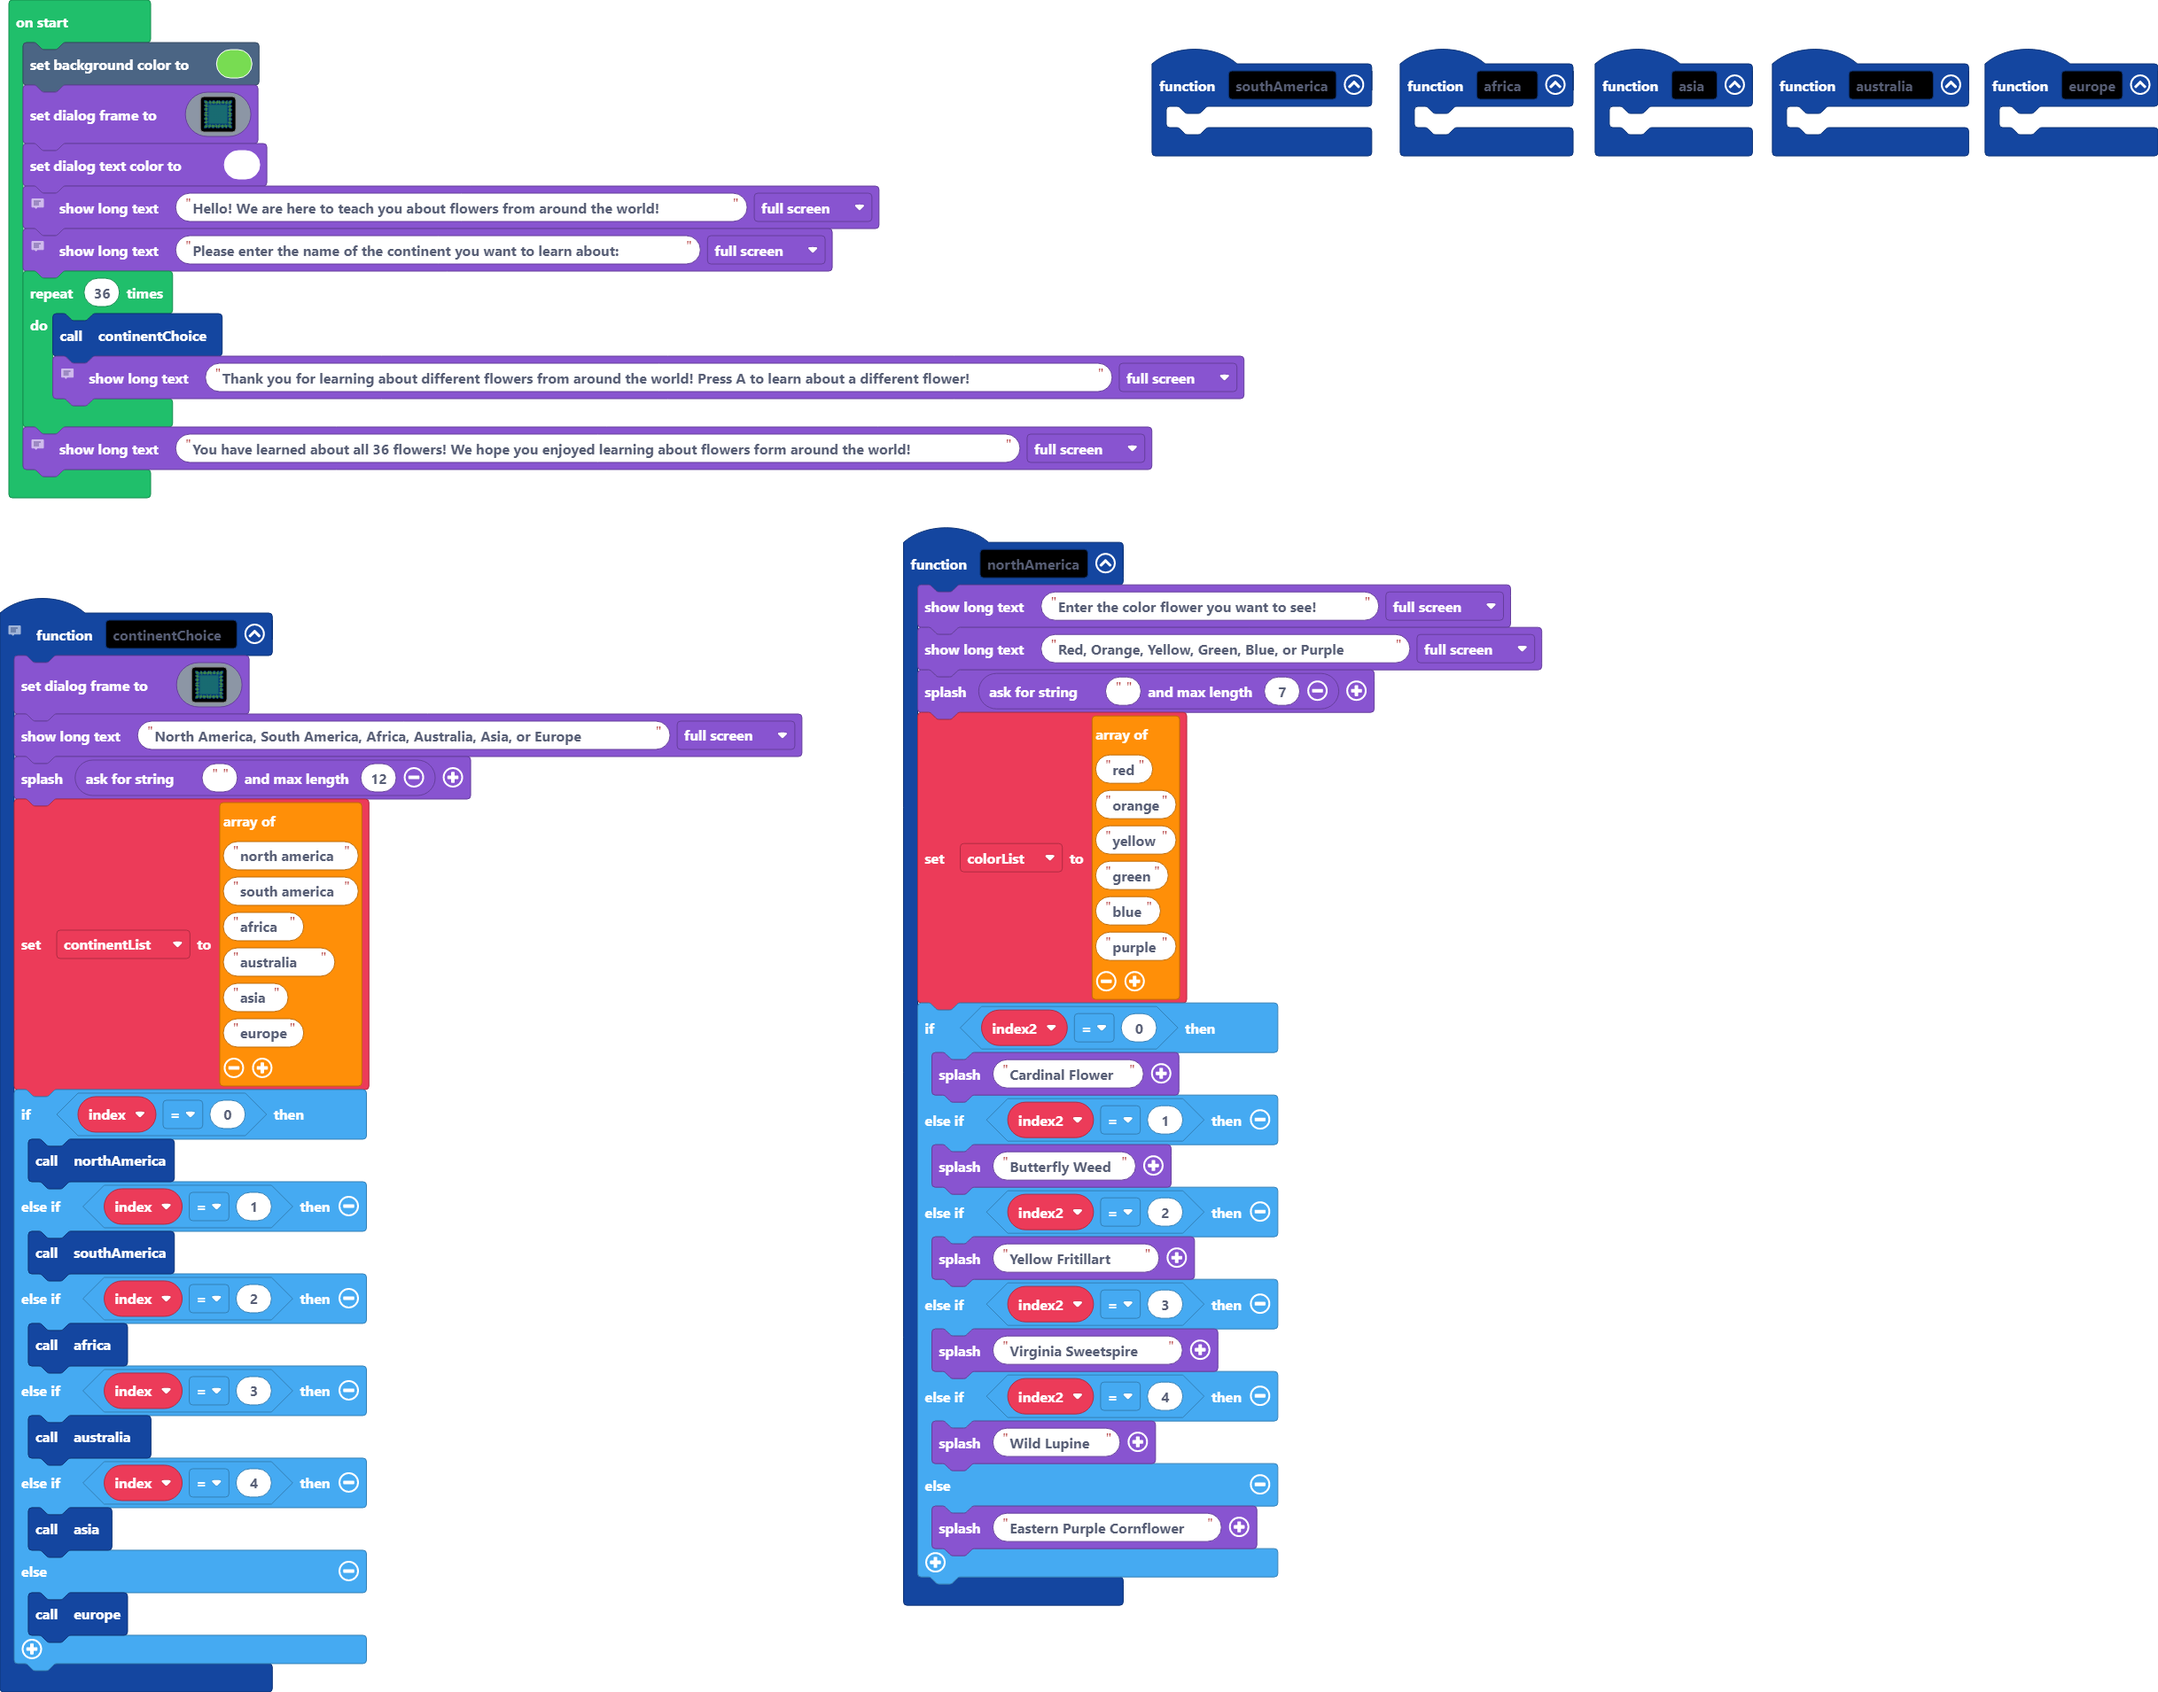
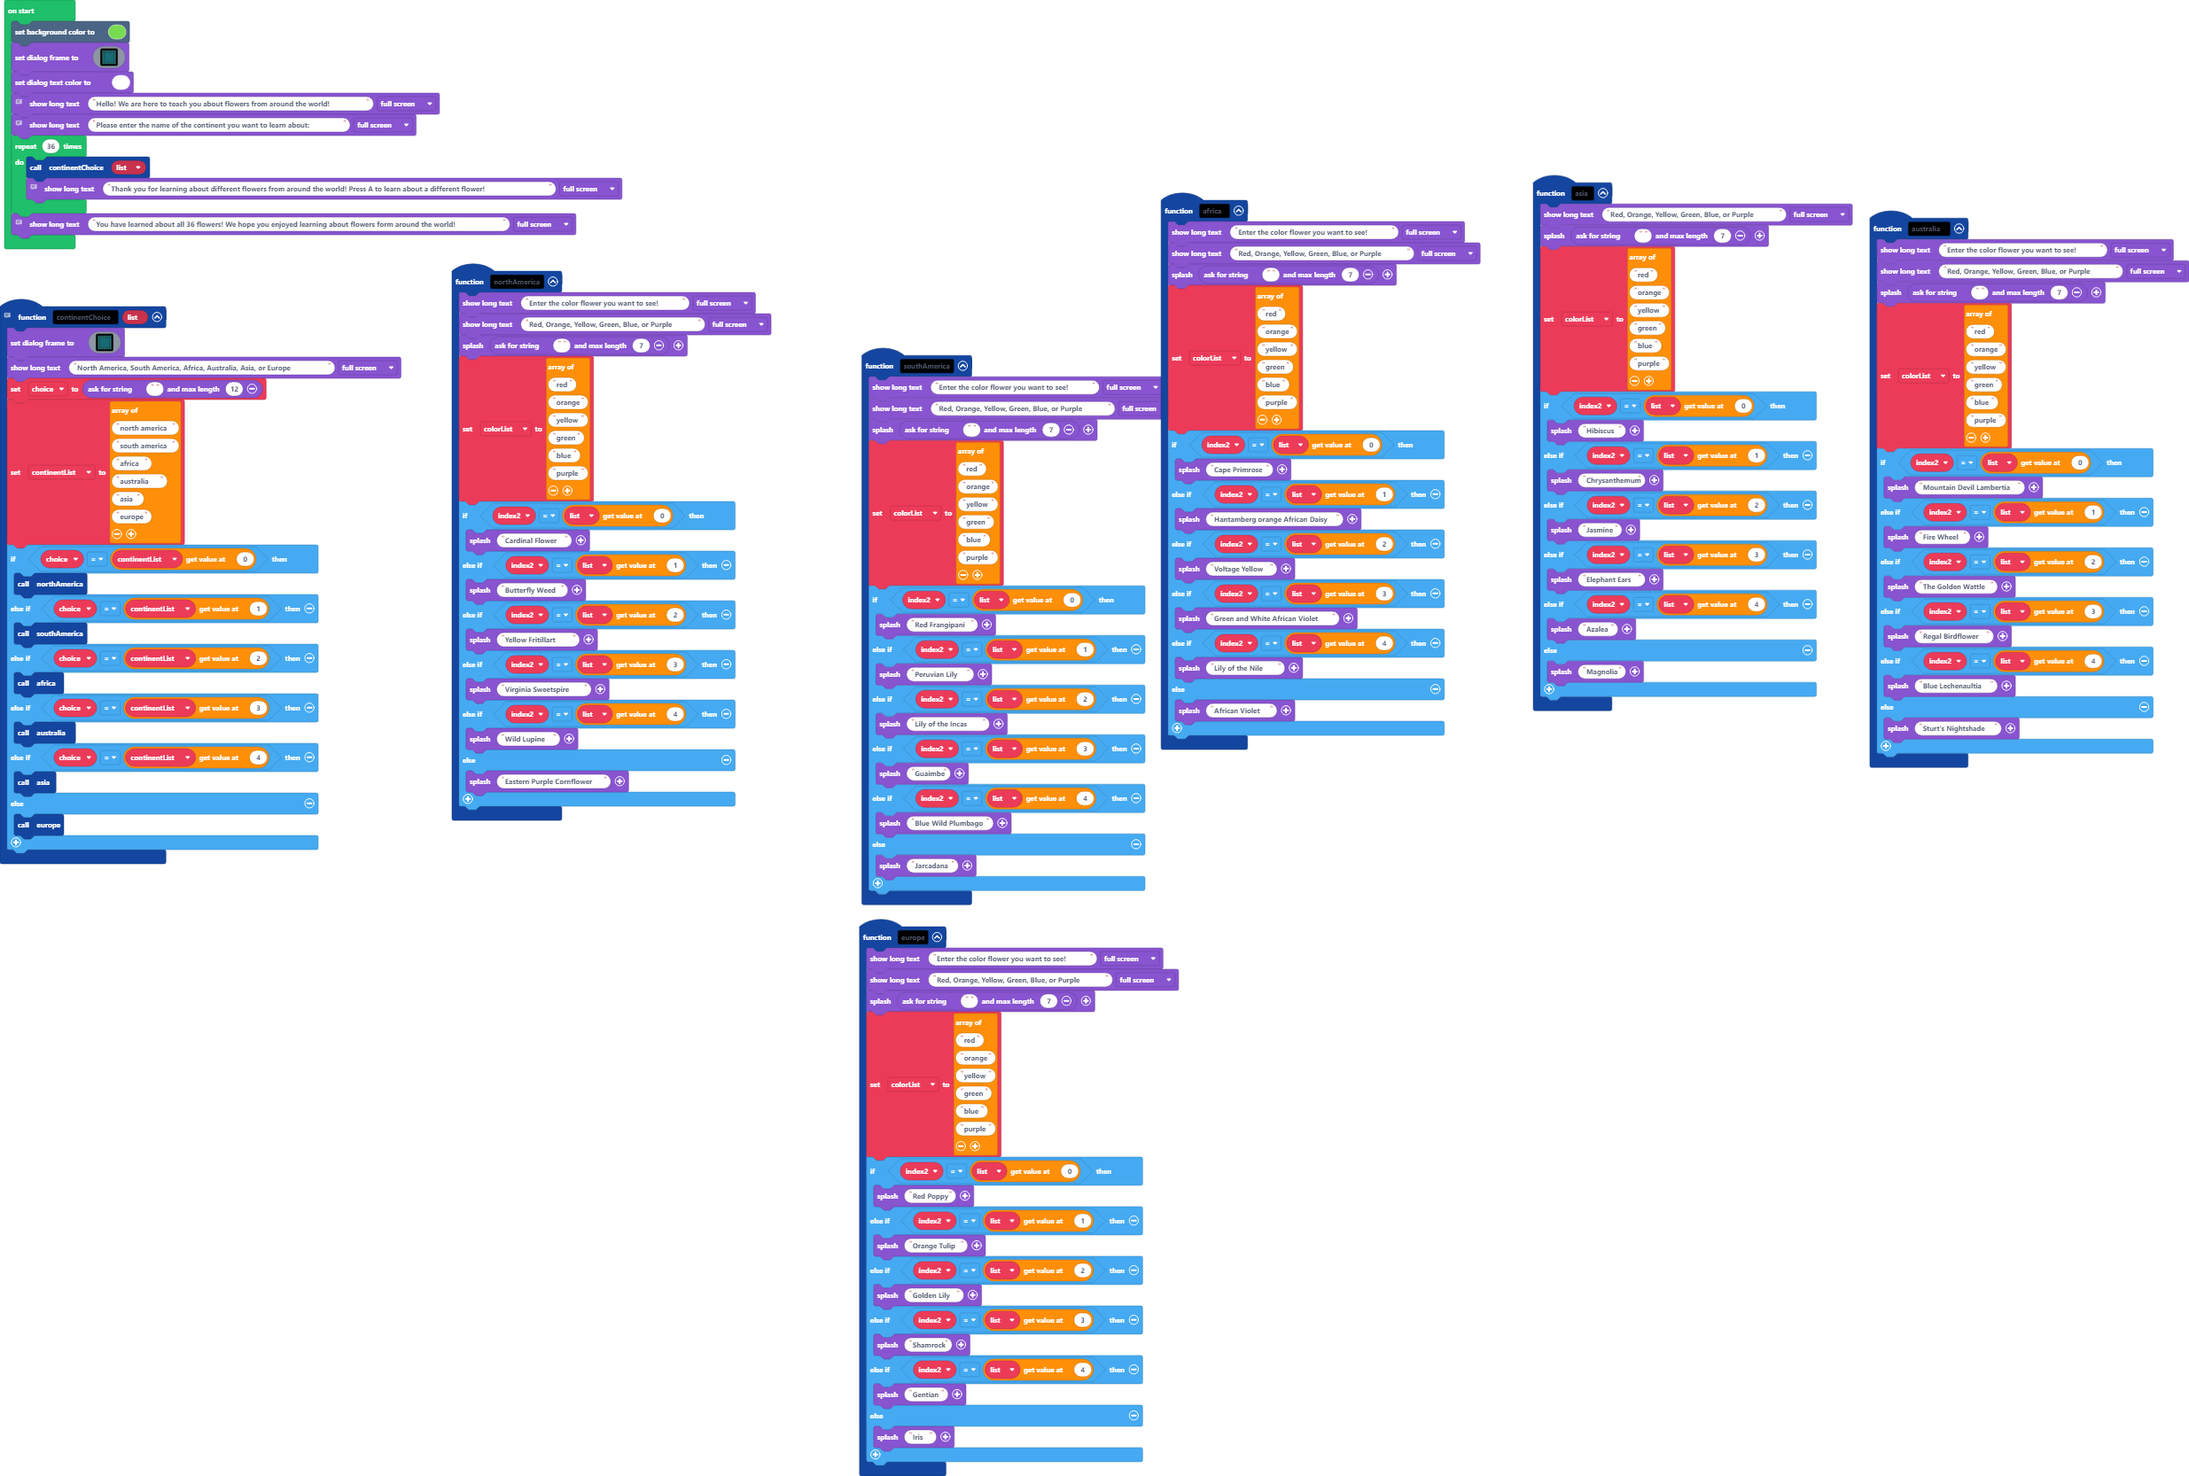
Update main.blocks, main.ts

diff --git a/main.ts b/main.ts
@@ -1,8 +1,29 @@
 function asia () {
-	
+    game.showLongText("Red, Orange, Yellow, Green, Blue, or Purple", DialogLayout.Full)
+    game.splash(game.askForString("", 7))
+    colorList = [
+    "red",
+    "orange",
+    "yellow",
+    "green",
+    "blue",
+    "purple"
+    ]
+    if (index2 == list[0]) {
+        game.splash("Hibiscus")
+    } else if (index2 == list[1]) {
+        game.splash("Chrysanthemum")
+    } else if (index2 == list[2]) {
+        game.splash("Jasmine")
+    } else if (index2 == list[3]) {
+        game.splash("Elephant Ears")
+    } else if (index2 == list[4]) {
+        game.splash("Azalea")
+    } else {
+        game.splash("Magnolia")
+    }
 }
 function northAmerica () {
-    let index2 = 0
     game.showLongText("Enter the color flower you want to see!", DialogLayout.Full)
     game.showLongText("Red, Orange, Yellow, Green, Blue, or Purple", DialogLayout.Full)
     game.splash(game.askForString("", 7))
@@ -14,35 +35,126 @@ function northAmerica () {
     "blue",
     "purple"
     ]
-    if (index2 == 0) {
+    if (index2 == list[0]) {
         game.splash("Cardinal Flower")
-    } else if (index2 == 1) {
+    } else if (index2 == list[1]) {
         game.splash("Butterfly Weed")
-    } else if (index2 == 2) {
+    } else if (index2 == list[2]) {
         game.splash("Yellow Fritillart")
-    } else if (index2 == 3) {
+    } else if (index2 == list[3]) {
         game.splash("Virginia Sweetspire ")
-    } else if (index2 == 4) {
+    } else if (index2 == list[4]) {
         game.splash("Wild Lupine ")
     } else {
         game.splash("Eastern Purple Cornflower")
     }
 }
 function australia () {
-	
+    game.showLongText("Enter the color flower you want to see!", DialogLayout.Full)
+    game.showLongText("Red, Orange, Yellow, Green, Blue, or Purple", DialogLayout.Full)
+    game.splash(game.askForString("", 7))
+    colorList = [
+    "red",
+    "orange",
+    "yellow",
+    "green",
+    "blue",
+    "purple"
+    ]
+    if (index2 == list[0]) {
+        game.splash("Mountain Devil Lambertia")
+    } else if (index2 == list[1]) {
+        game.splash("Fire Wheel")
+    } else if (index2 == list[2]) {
+        game.splash("The Golden Wattle")
+    } else if (index2 == list[3]) {
+        game.splash("Regal Birdflower")
+    } else if (index2 == list[4]) {
+        game.splash("Blue Lechenaultia")
+    } else {
+        game.splash("Sturt's Nightshade")
+    }
 }
 function europe () {
-	
+    game.showLongText("Enter the color flower you want to see!", DialogLayout.Full)
+    game.showLongText("Red, Orange, Yellow, Green, Blue, or Purple", DialogLayout.Full)
+    game.splash(game.askForString("", 7))
+    colorList = [
+    "red",
+    "orange",
+    "yellow",
+    "green",
+    "blue",
+    "purple"
+    ]
+    if (index2 == list[0]) {
+        game.splash("Red Poppy")
+    } else if (index2 == list[1]) {
+        game.splash("Orange Tulip")
+    } else if (index2 == list[2]) {
+        game.splash("Golden Lily")
+    } else if (index2 == list[3]) {
+        game.splash("Shamrock")
+    } else if (index2 == list[4]) {
+        game.splash("Gentian")
+    } else {
+        game.splash("Iris")
+    }
 }
 function southAmerica () {
-	
+    game.showLongText("Enter the color flower you want to see!", DialogLayout.Full)
+    game.showLongText("Red, Orange, Yellow, Green, Blue, or Purple", DialogLayout.Full)
+    game.splash(game.askForString("", 7))
+    colorList = [
+    "red",
+    "orange",
+    "yellow",
+    "green",
+    "blue",
+    "purple"
+    ]
+    if (index2 == list[0]) {
+        game.splash("Red Frangipani")
+    } else if (index2 == list[1]) {
+        game.splash("Peruvian Lily")
+    } else if (index2 == list[2]) {
+        game.splash("Lily of the Incas")
+    } else if (index2 == list[3]) {
+        game.splash("Guaimbe")
+    } else if (index2 == list[4]) {
+        game.splash("Blue Wild Plumbago")
+    } else {
+        game.splash("Jarcadana")
+    }
 }
 function africa () {
-	
+    game.showLongText("Enter the color flower you want to see!", DialogLayout.Full)
+    game.showLongText("Red, Orange, Yellow, Green, Blue, or Purple", DialogLayout.Full)
+    game.splash(game.askForString("", 7))
+    colorList = [
+    "red",
+    "orange",
+    "yellow",
+    "green",
+    "blue",
+    "purple"
+    ]
+    if (index2 == list[0]) {
+        game.splash("Cape Primrose")
+    } else if (index2 == list[1]) {
+        game.splash("Hantamberg orange African Daisy")
+    } else if (index2 == list[2]) {
+        game.splash("Voltage Yellow")
+    } else if (index2 == list[3]) {
+        game.splash("Green and White African Violet")
+    } else if (index2 == list[4]) {
+        game.splash("Lily of the Nile")
+    } else {
+        game.splash("African Violet")
+    }
 }
 // this function takes the user to the next step and shows them the choices and asks them for a number
-function continentChoice () {
-    let index = 0
+function continentChoice (list: any[]) {
     game.setDialogFrame(img`
         8888.....88....888....88.88....888....888...8888
         867788..8768..86768..8678768..86768..8678.887768
@@ -94,7 +206,7 @@ function continentChoice () {
         8888...888....888....88.88....888....88.....8888
         `)
     game.showLongText("North America, South America, Africa, Australia, Asia, or Europe", DialogLayout.Full)
-    game.splash(game.askForString("", 12))
+    choice = game.askForString("", 12)
     continentList = [
     "north america",
     "south america",
@@ -103,22 +215,25 @@ function continentChoice () {
     "asia",
     "europe"
     ]
-    if (index == 0) {
+    if (choice == continentList[0]) {
         northAmerica()
-    } else if (index == 1) {
+    } else if (choice == continentList[1]) {
         southAmerica()
-    } else if (index == 2) {
+    } else if (choice == continentList[2]) {
         africa()
-    } else if (index == 3) {
+    } else if (choice == continentList[3]) {
         australia()
-    } else if (index == 4) {
+    } else if (choice == continentList[4]) {
         asia()
     } else {
         europe()
     }
 }
 let continentList: string[] = []
+let choice = ""
+let index2 = 0
 let colorList: string[] = []
+let list: number[] = []
 scene.setBackgroundColor(7)
 game.setDialogFrame(img`
     8888.....88....888....88.88....888....888...8888
@@ -176,7 +291,7 @@ game.showLongText("Hello! We are here to teach you about flowers from around the
 // This long text is part two of the first text explaining what the game will be
 game.showLongText("Please enter the name of the continent you want to learn about:", DialogLayout.Full)
 for (let index = 0; index < 36; index++) {
-    continentChoice()
+    continentChoice(list)
     // This text intros the user and tells them what the game will include
     game.showLongText("Thank you for learning about different flowers from around the world! Press A to learn about a different flower!", DialogLayout.Full)
 }
